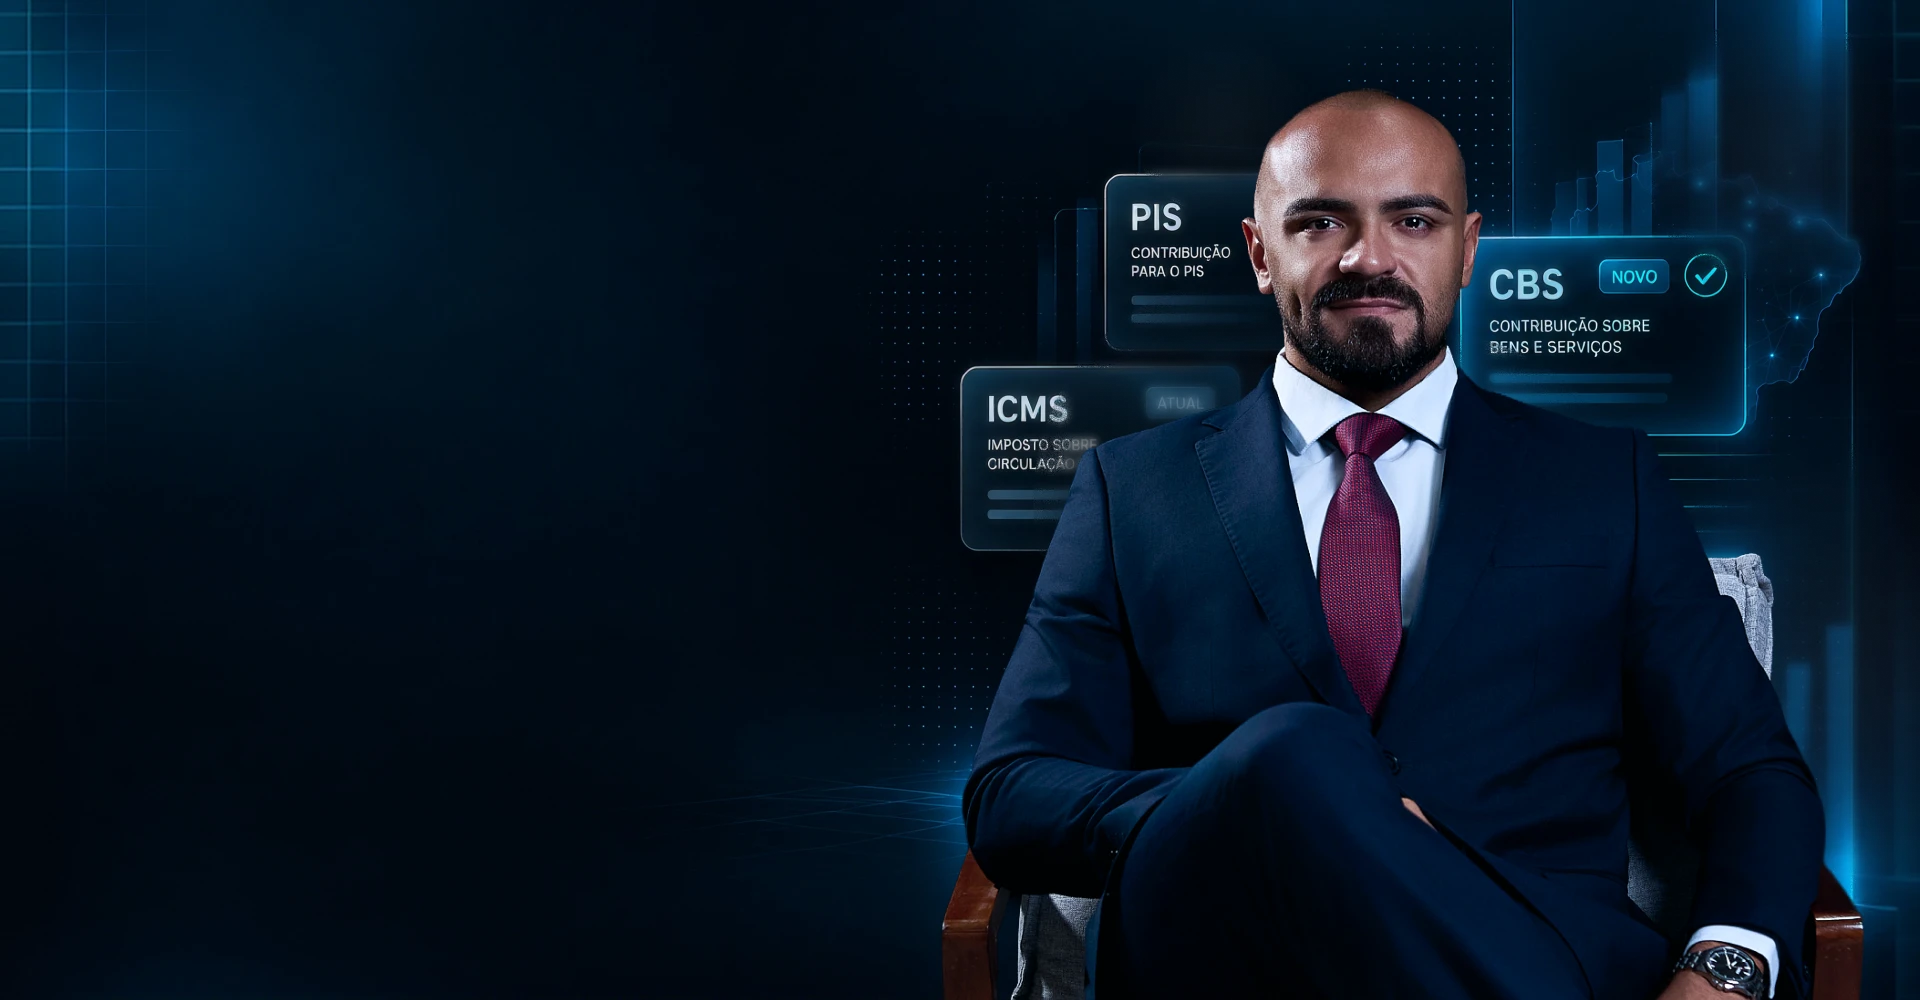
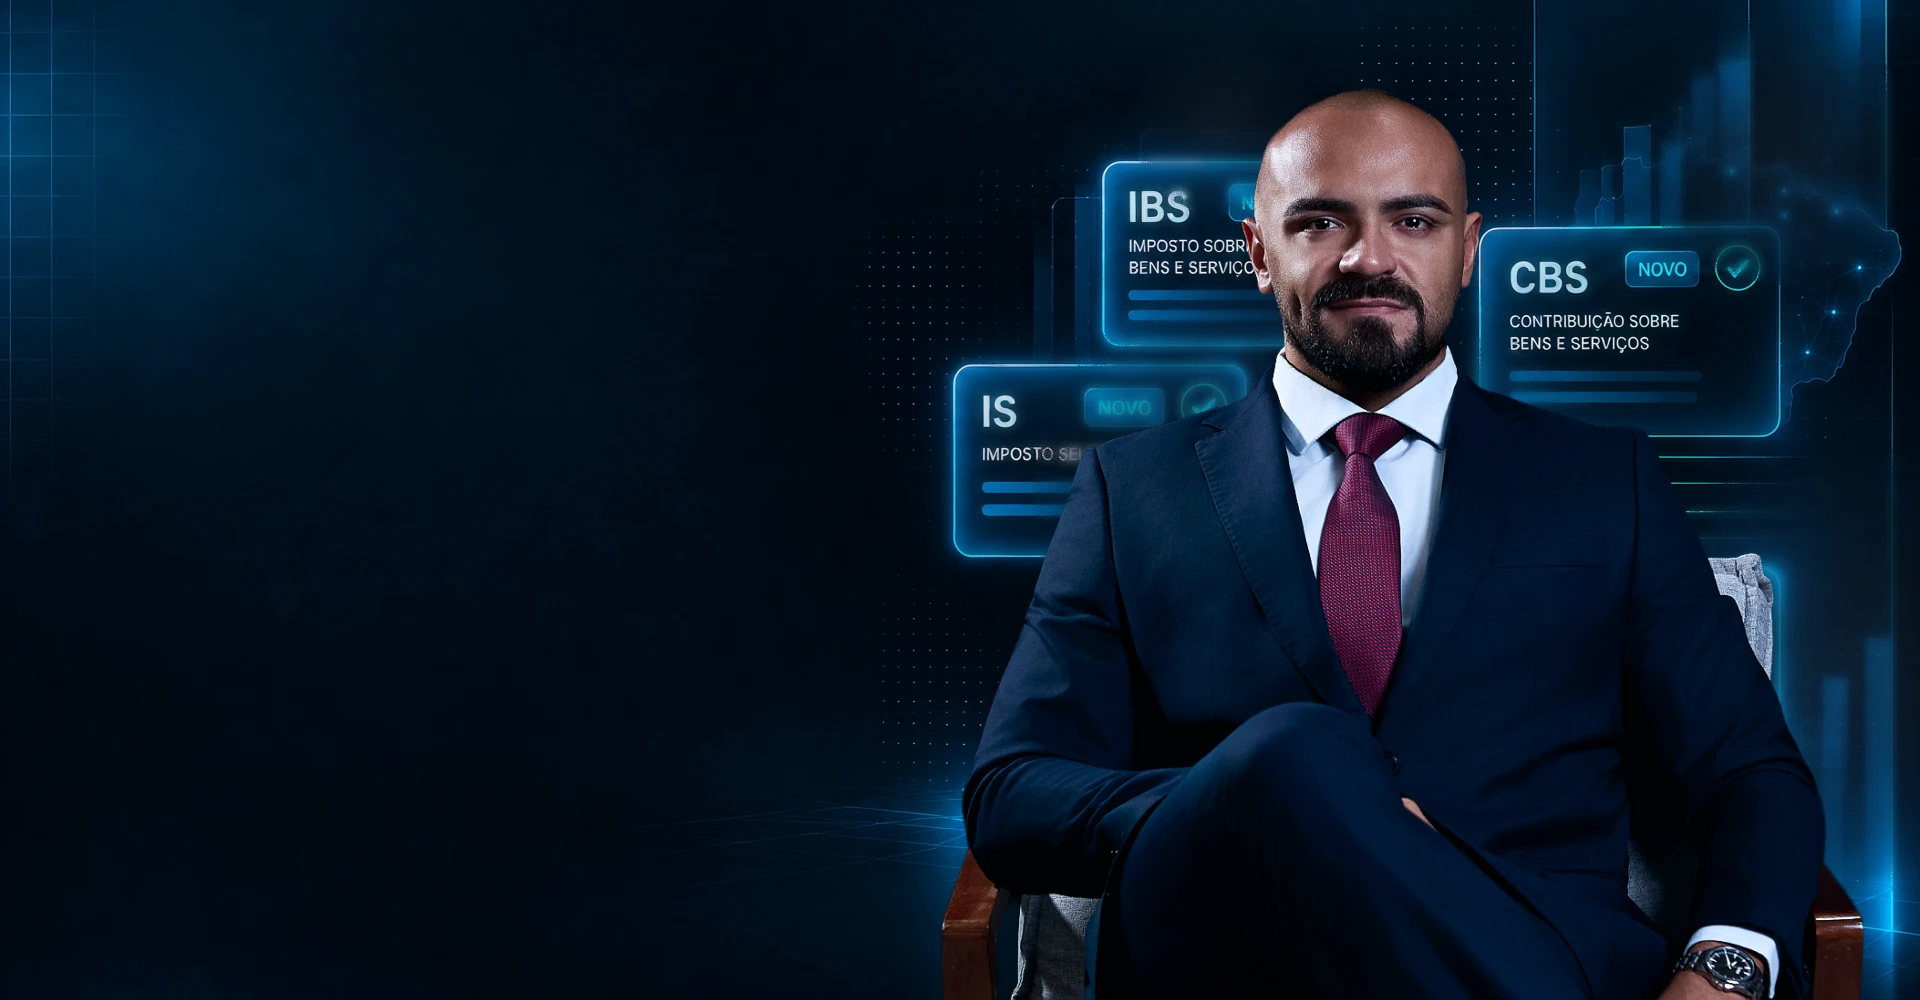
Atualiza hero, bio do professor e move Lucro real na pratica para modulo 11

diff --git a/index.html b/index.html
@@ -141,7 +141,7 @@ main > section > .wrap.rv-in{opacity:1;transform:none}
 /* hero */
 .hero{
   position:relative;overflow:hidden;padding:0;
-  background:#071116 url("hero-desktop.webp") center top / cover no-repeat;
+  background:#071116 url("hero-desktop.webp?v=20260916") center top / cover no-repeat;
   min-height:clamp(600px,52vw,940px);
   display:flex;flex-direction:column;justify-content:space-between;
 }
@@ -708,7 +708,7 @@ main > section > .wrap.rv-in{opacity:1;transform:none}
 @media (max-width:720px){
   :root{--sp:clamp(56px,14vw,80px)}
   /* hero mobile: imagem de fundo + texto começando na altura do peito */
-  .hero{background-image:url("hero-mobile.webp");background-size:100% auto;background-position:top center;background-repeat:no-repeat;min-height:0}
+  .hero{background-image:url("hero-mobile.webp?v=20260916");background-size:100% auto;background-position:top center;background-repeat:no-repeat;min-height:0}
   .hero::before{background:linear-gradient(180deg,rgba(7,17,22,.1) 0%,rgba(7,17,22,.02) 26%,rgba(7,17,22,.34) 50%,rgba(7,17,22,.72) 68%,#071116 86%)}
   .hero-inner{padding-top:18vw;padding-bottom:30px}
   .hero-copy .eyebrow{display:block;max-width:270px;font-size:11.5px;letter-spacing:.05em;margin-bottom:28px}
@@ -989,7 +989,6 @@ main > section > .wrap.rv-in{opacity:1;transform:none}
       <div class="sector seg-card"><span class="seg-glow"></span><span class="seg-noise"></span><span class="spot"></span><div class="sec-img"><img src="img/setor_de_bebidas_1x.webp" alt="Setor de bebidas" loading="lazy"></div><div class="sec-txt"><b>Setor de bebidas</b><span>Imposto Seletivo e pontos de atenção</span></div></div>
       <div class="sector seg-card"><span class="seg-glow"></span><span class="seg-noise"></span><span class="spot"></span><div class="sec-img"><img src="img/distribuidora_de_alimentos_1x.webp" alt="Distribuidora de alimentos" loading="lazy"></div><div class="sec-txt"><b>Distribuidora de alimentos</b><span>operações, créditos e formação de preço</span></div></div>
       <div class="sector seg-card"><span class="seg-glow"></span><span class="seg-noise"></span><span class="spot"></span><div class="sec-img"><img src="img/padaria_1x.webp" alt="Padaria" loading="lazy"></div><div class="sec-txt"><b>Padaria</b><span>comércio, produção e tributação</span></div></div>
-      <div class="sector seg-card"><span class="seg-glow"></span><span class="seg-noise"></span><span class="spot"></span><div class="sec-img"></div><div class="sec-txt"><b>Lucro real na prática</b><span>apuração, créditos e decisões do regime</span></div></div>
       <div class="sector seg-card"><span class="seg-glow"></span><span class="seg-noise"></span><span class="spot"></span><div class="sec-img"><img src="img/setor_de_sa_de_1x.webp" alt="Setor de saúde" loading="lazy"></div><div class="sec-txt"><b>Setor de saúde</b><span>regimes e particularidades do segmento</span></div></div>
       <div class="sector seg-card"><span class="seg-glow"></span><span class="seg-noise"></span><span class="spot"></span><div class="sec-img"><img src="img/farm_cia_de_manipula_o_1x.webp" alt="Farmácia de manipulação" loading="lazy"></div><div class="sec-txt"><b>Farmácia de manipulação</b><span>produtos, serviços e classificação fiscal</span></div></div>
       <div class="sector seg-card"><span class="seg-glow"></span><span class="seg-noise"></span><span class="spot"></span><div class="sec-img"><img src="img/transportadora_1x.webp" alt="Transportadora" loading="lazy"></div><div class="sec-txt"><b>Transportadora</b><span>prestação, documentos e operação logística</span></div></div>
@@ -1174,6 +1173,7 @@ main > section > .wrap.rv-in{opacity:1;transform:none}
         <div class="name">Bruno Viana</div>
         <p>Professor e profissional com mais de 15 anos de atuação na área tributária.</p>
         <p style="margin-top:14px">Ao longo da carreira, analisou mais de R$ 50 milhões em autos de infração de ICMS, desenvolvendo uma abordagem voltada para identificar onde os erros acontecem e quais perguntas precisam ser feitas antes de orientar um cliente.</p>
+        <p style="margin-top:14px">Criador da Mentoria Contador Tributarista, fundador da Academia Elite Fiscal e responsável pela Pós-Graduação em Reforma Tributária reconhecida pelo MEC. Sua missão: transformar legislação complexa em conhecimento prático que gera resultados reais.</p>
         <a href="#oferta" class="btn btn-primary" style="margin-top:30px">Quero estudar com Bruno Viana</a>
       </div>
     </div>
@@ -1221,7 +1221,7 @@ main > section > .wrap.rv-in{opacity:1;transform:none}
   </div>
 </footer>
 
-<script id="course-data" type="application/json">{"modules": [{"idx": "01", "title": "Estudo da legislação", "meta": "4 aulas · 2h31", "lessons": ["LC 227/26 parte 1 — Comitê Gestor do IBS — 45:09", "LC 227/26 parte 2 — Contencioso Administrativo — 38:54", "LC 227/26 parte 3 — Período de transição do ICMS — 35:12", "LC 227/26 parte 4 — Arrecadação do IBS — 31:50"]}, {"idx": "02", "title": "Fundamentos e contexto da Reforma", "meta": "3 aulas · 2h16", "lessons": ["Contexto histórico da Reforma — 1:09:38", "Visão geral da LC 214/25 — 34:28", "Princípios fundamentais da nova tributação — 31:58"]}, {"idx": "03", "title": "Operações tributáveis e não tributáveis", "meta": "3 aulas · 2h09", "lessons": ["Fato gerador e hipótese de incidência — 56:09", "Não incidência do IBS e CBS — 18:18", "Imunidades constitucionais — 55:04"]}, {"idx": "04", "title": "Sujeitos da obrigação tributária", "meta": "2 aulas · 1h34", "lessons": ["Contribuintes, responsáveis e não contribuintes — 51:33", "Local da operação e repartição de receitas — 42:14"]}, {"idx": "05", "title": "Base de cálculo e alíquotas", "meta": "1 aula · 13min", "lessons": ["Base de cálculo IBS e CBS — 12:58"]}, {"idx": "06", "title": "Sistema de créditos e não cumulatividade", "meta": "2 aulas · 30min", "lessons": ["Princípios da não cumulatividade — 18:56", "Vedações e uso do crédito — 10:34"]}, {"idx": "07", "title": "Modos de pagamento e extinção", "meta": "1 aula · 10min", "lessons": ["Extinção do débito — 10:26"]}, {"idx": "08", "title": "Imposto Seletivo", "meta": "1 aula · 1h07", "lessons": ["Imposto Seletivo — bebidas na mira da Reforma Tributária — 1:07:12"]}, {"idx": "09", "title": "Obrigações acessórias e compliance", "meta": "2 aulas · 2h41", "lessons": ["Treinamento de emissão de NF na Reforma Tributária — 2:11:31", "Classificação fiscal na prática — 29:18"]}, {"idx": "10", "title": "Aspectos polêmicos e controversos", "meta": "2 aulas · 34min", "lessons": ["ITCMD na Reforma Tributária — 24:33", "Exercício ITCMD — 09:10"]}, {"idx": "11", "title": "Regimes especiais e diferenciados", "meta": "1 aula · 49min", "lessons": ["Setor imobiliário — 48:42"]}, {"idx": "12", "title": "Dominando Simples Nacional na Reforma: do zero ao cálculo", "meta": "8 aulas · 2h19", "lessons": ["O Simples Nacional acabou ou continua? A verdade sem enrolação — 07:41", "IBS e CBS entram no Simples — como funciona na prática — 14:51", "Cálculo do Simples Nacional 2026 — passo a passo completo — 13:50", "Novas vedações — quem pode e quem não pode mais ficar no Simples — 09:29", "Sublimites estaduais e municipais — como ficam após a unificação — 09:36", "Análise de caso na prática — 11:18", "Como apresentar isso pro seu cliente sem perder a consultoria — 15:48", "Tira-dúvidas do Simples Nacional — 56:18"]}, {"idx": "13", "title": "Atualizações da Reforma", "meta": "2 aulas · 1h44", "lessons": ["DIMP e fiscalização de dados — 53:22", "Split payment — 50:44"]}], "faq": [{"q": "O curso é apenas teórico?", "a": "Não. A proposta combina base legal, aplicação operacional, análise setorial e ferramentas prontas para utilizar com seus clientes."}, {"q": "O conteúdo sobre Reforma Tributária está atualizado?", "a": "Sim. O conteúdo é atualizado conforme novas regulamentações são publicadas."}, {"q": "Posso parcelar?", "a": "Sim, em até 12x no cartão de crédito. Ou R$ 997,00 à vista no PIX ou boleto."}, {"q": "E se eu não ficar satisfeito?", "a": "Você tem 7 dias de garantia incondicional. Solicite o reembolso por e-mail e devolveremos 100% — sem burocracia."}, {"q": "Tenho acesso imediato após a compra?", "a": "Sim. O acesso à plataforma é liberado imediatamente após a confirmação do pagamento."}, {"q": "O acesso é por quanto tempo?", "a": "12 meses a partir da data da compra, com acesso a todo o conteúdo e atualizações publicadas durante o período."}]}</script>
+<script id="course-data" type="application/json">{"modules": [{"idx": "01", "title": "Estudo da legislação", "meta": "4 aulas · 2h31", "lessons": ["LC 227/26 parte 1 — Comitê Gestor do IBS — 45:09", "LC 227/26 parte 2 — Contencioso Administrativo — 38:54", "LC 227/26 parte 3 — Período de transição do ICMS — 35:12", "LC 227/26 parte 4 — Arrecadação do IBS — 31:50"]}, {"idx": "02", "title": "Fundamentos e contexto da Reforma", "meta": "3 aulas · 2h16", "lessons": ["Contexto histórico da Reforma — 1:09:38", "Visão geral da LC 214/25 — 34:28", "Princípios fundamentais da nova tributação — 31:58"]}, {"idx": "03", "title": "Operações tributáveis e não tributáveis", "meta": "3 aulas · 2h09", "lessons": ["Fato gerador e hipótese de incidência — 56:09", "Não incidência do IBS e CBS — 18:18", "Imunidades constitucionais — 55:04"]}, {"idx": "04", "title": "Sujeitos da obrigação tributária", "meta": "2 aulas · 1h34", "lessons": ["Contribuintes, responsáveis e não contribuintes — 51:33", "Local da operação e repartição de receitas — 42:14"]}, {"idx": "05", "title": "Base de cálculo e alíquotas", "meta": "1 aula · 13min", "lessons": ["Base de cálculo IBS e CBS — 12:58"]}, {"idx": "06", "title": "Sistema de créditos e não cumulatividade", "meta": "2 aulas · 30min", "lessons": ["Princípios da não cumulatividade — 18:56", "Vedações e uso do crédito — 10:34"]}, {"idx": "07", "title": "Modos de pagamento e extinção", "meta": "1 aula · 10min", "lessons": ["Extinção do débito — 10:26"]}, {"idx": "08", "title": "Imposto Seletivo", "meta": "1 aula · 1h07", "lessons": ["Imposto Seletivo — bebidas na mira da Reforma Tributária — 1:07:12"]}, {"idx": "09", "title": "Obrigações acessórias e compliance", "meta": "2 aulas · 2h41", "lessons": ["Treinamento de emissão de NF na Reforma Tributária — 2:11:31", "Classificação fiscal na prática — 29:18"]}, {"idx": "10", "title": "Aspectos polêmicos e controversos", "meta": "2 aulas · 34min", "lessons": ["ITCMD na Reforma Tributária — 24:33", "Exercício ITCMD — 09:10"]}, {"idx": "11", "title": "Regimes especiais e diferenciados", "meta": "2 aulas · 1h20", "lessons": ["Setor imobiliário — 48:42", "Lucro real na prática — 31:55"]}, {"idx": "12", "title": "Dominando Simples Nacional na Reforma: do zero ao cálculo", "meta": "8 aulas · 2h19", "lessons": ["O Simples Nacional acabou ou continua? A verdade sem enrolação — 07:41", "IBS e CBS entram no Simples — como funciona na prática — 14:51", "Cálculo do Simples Nacional 2026 — passo a passo completo — 13:50", "Novas vedações — quem pode e quem não pode mais ficar no Simples — 09:29", "Sublimites estaduais e municipais — como ficam após a unificação — 09:36", "Análise de caso na prática — 11:18", "Como apresentar isso pro seu cliente sem perder a consultoria — 15:48", "Tira-dúvidas do Simples Nacional — 56:18"]}, {"idx": "13", "title": "Atualizações da Reforma", "meta": "2 aulas · 1h44", "lessons": ["DIMP e fiscalização de dados — 53:22", "Split payment — 50:44"]}], "faq": [{"q": "O curso é apenas teórico?", "a": "Não. A proposta combina base legal, aplicação operacional, análise setorial e ferramentas prontas para utilizar com seus clientes."}, {"q": "O conteúdo sobre Reforma Tributária está atualizado?", "a": "Sim. O conteúdo é atualizado conforme novas regulamentações são publicadas."}, {"q": "Posso parcelar?", "a": "Sim, em até 12x no cartão de crédito. Ou R$ 997,00 à vista no PIX ou boleto."}, {"q": "E se eu não ficar satisfeito?", "a": "Você tem 7 dias de garantia incondicional. Solicite o reembolso por e-mail e devolveremos 100% — sem burocracia."}, {"q": "Tenho acesso imediato após a compra?", "a": "Sim. O acesso à plataforma é liberado imediatamente após a confirmação do pagamento."}, {"q": "O acesso é por quanto tempo?", "a": "12 meses a partir da data da compra, com acesso a todo o conteúdo e atualizações publicadas durante o período."}]}</script>
 <script>
 (function(){
   // ---- render curriculum + faq from data ----
